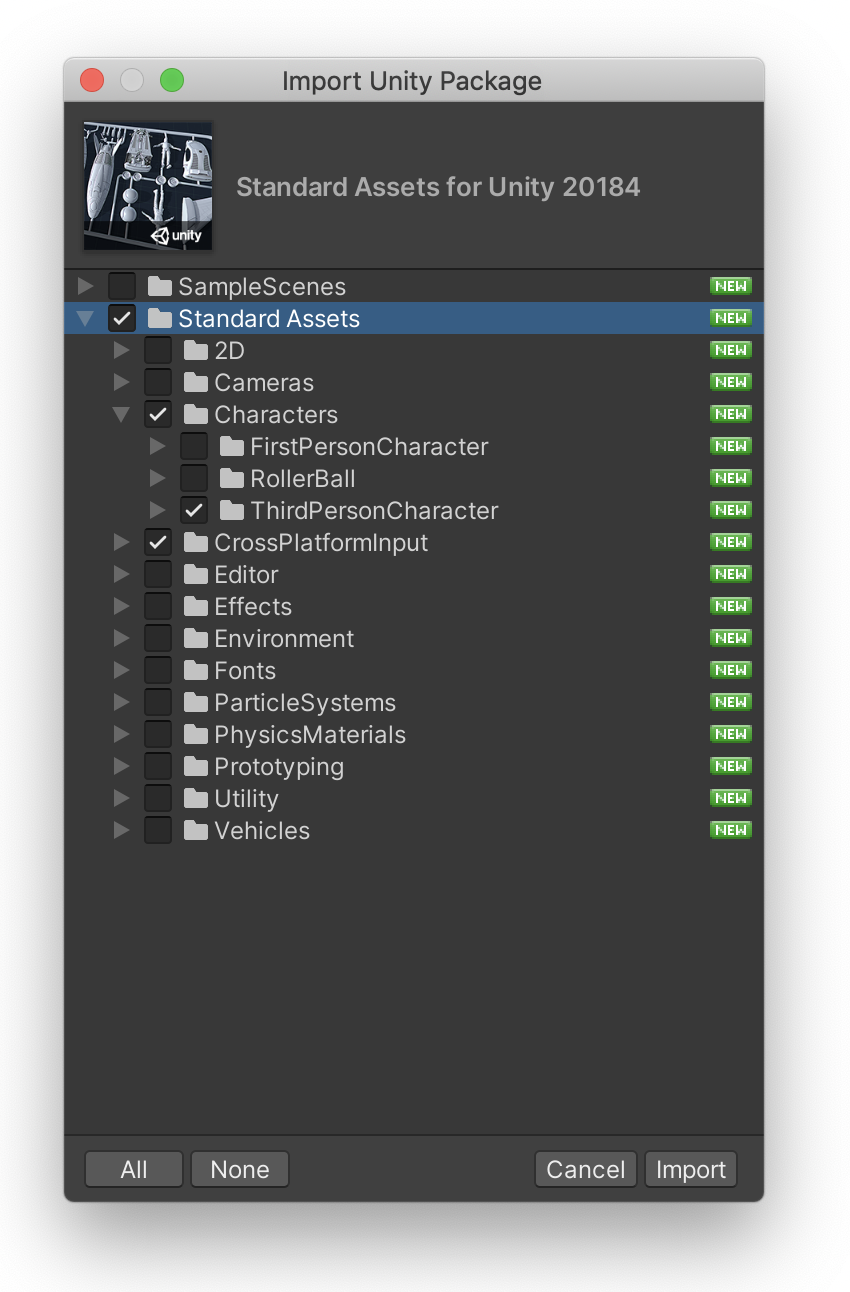
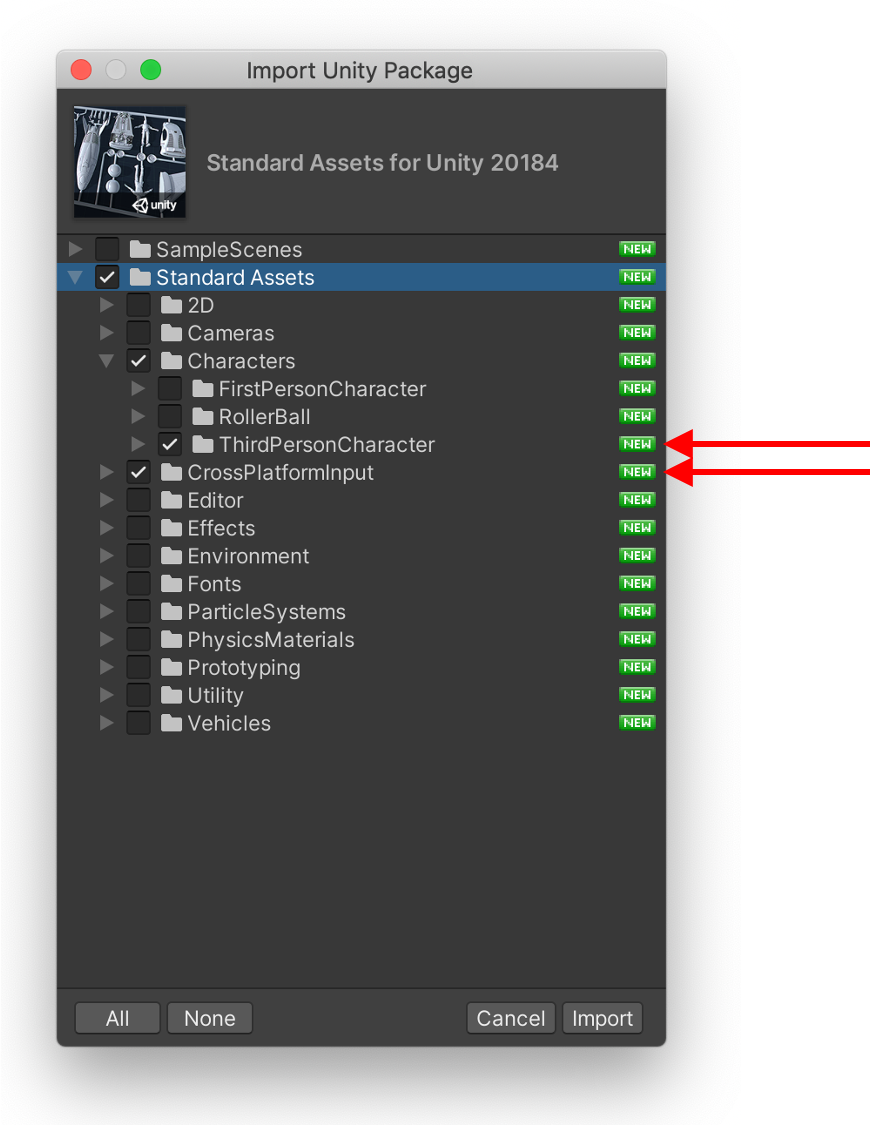
3d char controller doc completed.

diff --git a/custom_theme/css/images.css b/custom_theme/css/images.css
@@ -6,6 +6,7 @@
  * scaleXX --> scales the image to XX%
  *
  * Valid values of XX are 100, 90, 80 ... 10.
+ * Additionally, values of XX=25 are also included.
  * Use with URL parameters when embedding an image in MD doc.
  * Example1:
    ![Alt Text 1](url1/image1.png?style=center70)
@@ -65,6 +66,12 @@
 	  display:block;
 	  margin:0 auto;
     width:30%;
+	}
+
+	img[src$="center25"] {
+	  display:block;
+	  margin:0 auto;
+    width:25%;
 	}
 
 	img[src$="center20"] {
@@ -134,6 +141,13 @@
 		margin:0;
 		float:left;
     width:30%;
+	}
+
+	img[src$="left25"] {
+		display:block;
+		margin:0;
+		float:left;
+    width:25%;
 	}
 
 	img[src$="left20"] {
@@ -207,6 +221,13 @@
 	width:30%;
 	}
 
+	img[src$="right25"] {
+	display:block;
+	margin:0;
+	float:right;
+	width:25%;
+	}
+
 	img[src$="right20"] {
 	display:block;
 	margin:0;
@@ -252,6 +273,10 @@
 
 	img[src$="scale30"] {
     width:30%;
+	}
+
+	img[src$="scale25"] {
+    width:25%;
 	}
 
 	img[src$="scale20"] {

diff --git a/docs/controllable_char_with_SA.md b/docs/controllable_char_with_SA.md
@@ -5,18 +5,15 @@
 
 In this exercise, you will create a keyboard- and joystick-controllable third person character using the Unity Standard Assets.  This guide uses _Standard Assets 2018.4.1_ running on _Unity 2019.4.16f1 Personal_.
 
+![](controllable_char_with_SA/image1.jpg?style=left25)
 
-![](controllable_char_with_SA/image1.jpg?style=left30)
+![](controllable_char_with_SA/image2.jpg?style=left25)
 
-![](controllable_char_with_SA/image2.jpg?style=left30)
+![](controllable_char_with_SA/image3.jpg?style=left25)
 
-![](controllable_char_with_SA/image3.jpg?style=left30)
+![](controllable_char_with_SA/image4.jpg?style=scale25)
 
-![](controllable_char_with_SA/image4.jpg?style=left30)
-
-
-
-Begin by downloading the character you want to use for this exercise.  Follow Steps 1 and 3 of the “_[Instructions for downloading characters and animations from mixamo.com](https://docs.google.com/document/d/1wa4wkw0jEfR5mXGCDmMVqvGJwCwdYghuITq1HSdc_jI/edit?usp=sharing)_” guide to download your character.  You can also download characters from the Unity store or from other online sources.
+Begin by downloading the character you want to use for this exercise.  Follow Steps 1 and 3 of the “_[Instructions for downloading characters and animations from mixamo.com](mixamo_characters_and_animations.md)_” guide to download your character.  You can also download characters from the Unity store or from other online sources.
 
 This guide makes use of the Standard Assets (SA) package created by Unity and made available for free through the Unity Assets Store.  The SAs provide resources to quickly complete common tasks.  We will be using it to create a third-person character that you will be able to control with the keyboard or with a joystick.  This is a three part guide.  Do part I first.  You can do parts II or III in any order.
 
@@ -26,43 +23,35 @@ Part I - Create a 3rd Person Controller
 
 1. Create a new 3D project
 2. We will need two resources from the SA package: CrossPlatformInput and ThirdPersonCharacter
-3. Navigate to the Asset Store:
-Window->Asset Store
-and search for the Unity Standard Assets.
+3. Navigate to the Asset Store:  
+    `Window->Asset Store`  
+    and search for the Unity Standard Assets.
 4. Once you have the package, select “Import” to bring it into the current project.
 
-![](controllable_char_with_SA/image5.png)
-
+    ![](controllable_char_with_SA/SA.png?style=center70)
+    <br/>
 5. You will be shown a menu of resources within the SA package available for import.  While you can import everything, this will result in a larger than necessary project directory (always be mindful of disk space when working with Unity).  For Part I of this guide, you need to import only 2 things: _ThirdPersonCharacter_ and _CrossPlatformInput_:  
     `   Standard Assets->CrossPlatformInput`  
     `   Standard Assets->Characters->ThirdPersonCharacter`  
 
-![](controllable_char_with_SA/imagex.png)
+    ![](controllable_char_with_SA/SA_select_packages.png?style=center70)
 
-!!! Hint
-    For Part II, we will need the _Cameras_ resource.  You may want to import it now to save time later.
+    !!! Tip
+        For Part II, we will need the _Cameras_ resource.  You may want to import it now to save time later.
 
-6. From the ThirdPersonCharacter folder, instantiate a ThirdPersonController by dragging the ThirdPersonController to the Hierarchy Window. \
-(_Assets->StandardAssets->Characters->ThirdPersonCharacter->Prefabs->ThirdPersonController_) \
-
-
-![](controllable_char_with_SA/image6.png)
+6. From the ThirdPersonCharacter folder, instantiate a ThirdPersonController by dragging the ThirdPersonController to the Hierarchy Window.
+    (_Assets->StandardAssets->Characters->ThirdPersonCharacter->Prefabs->ThirdPersonController_)
 
 
-![alt_text](controllable_char_with_SA/image6.png "image_tooltip")
+    ![](controllable_char_with_SA/3rd_person_asset.png?style=center100)
 
-This will create the character “Ethan” that should be visible in the scene.
+    <br/>This will create the character “Ethan” that should be visible in the scene.  
+
 7. If you run the project, you will notice that Ethan simply falls out of view.  This is because the character is subject to gravity.  To fix this, we need to create a floor.
 8. Instantiate a cube.  Flatten and stretch it to create a floor.  For example, you might scale it in its transform window with the X and Z scales set to 100 and the Y scale set to 0.1.  However you scale it, position it so that it is immediately below Ethan’s feet.
 
-
-
-![](controllable_char_with_SA/image7.png)
-
-
-![alt_text](controllable_char_with_SA/image7.png "image_tooltip")
-
-
+    ![](controllable_char_with_SA/ethan.png?style=center60)
+   <br/>
 9. Now run the project again.  This time, Ethan has a floor beneath his feet.  You should be able to control him with the keyboard arrows or with a joystick.  Use ‘C’ to crouch down and use the spacebar to jump.  Use the left shift key to make him walk.
 
 Part II - Add a 3rd Player Camera
@@ -77,86 +66,45 @@ In this part, we will replace the default static camera with a 3rd player camera
 3. Instantiate a “multipurpose camera rig” to the hierarchy.  From the Assets window, (_Assets->StandardAssets->Cameras->Prefabs->MultipuposeCameraRig_)
 4. Tag the ThirdPersonController as the “Player” in the Inspector.  This is how the camera knows what to follow.
 
+    ![](controllable_char_with_SA/3rd_person_select.png?style=center100)
+
+   <br/>
+5. Run the project again.  Note how the camera follows the player.  Feel free to experiment with the other available cameras.  Note that the first person camera requires importing _Standard Assets->Utility_.
 
 
 
-8" >![](controllable_char_with_SA/image8.png) 9
-
-
-![alt_text](controllable_char_with_SA/image8.png "image_tooltip")
-
-
-
-
-5. Run the project again.  Note how the camera follows the player.  Feel free to experiment with the other available cameras.  Note that the first person camera requires importing_ Standard Assets->Utility_.
-
-
-
-**Part III - Replace the Default Character**
+Part III - Replace the Default Character
+----------------------------------------
 
 In this part, we will replace Ethan with a character of our choice.
 
-
-
 1. Import a rigged humanoid character model into the project.  Be certain that your character’s Rig is set to “humanoid”.  For this example, we have imported a character named Louise who we will use to replace Ethan.
-2. The ThirdPersonController is a prefab.  Think of it as a zip file that contains other files.  Just like you can’t modify the contents of a zip file without unzipping it, you can’t modify the contents of a prefab without “unpacking” it.  The Ethan character is contained inside the ThirdPersonController prefab.  In order to replace Ethan with Louise, we must unpack the prefab.  In the hierarchy window, right-click on the ThirdPersonController and select “Unpack Prefab”.
+2. The ThirdPersonController is a prefab.  Think of it as a zip file that contains other files.  Just like you can’t modify the contents of a zip file without unzipping it, you can’t modify the contents of a prefab without “unpacking” it.  The Ethan character is contained inside the ThirdPersonController prefab.  In order to replace Ethan with Louise, we must unpack the prefab.  In the hierarchy window, right-click on the ThirdPersonController and select “Unpack Prefab”. <br/><br/>
 
+    ![](controllable_char_with_SA/unpack_prefab.png?style=center50)
+    <br/>
 
+3.  Once the prefab is unpacked, instantiate a copy of Louise inside the unpacked prefab  
+4.  Now, delete the 3 files (EthanBody, EthanModel, EthanSkeleton) that comprise the Ethan character.  
+    <br/>
 
+    |  |  |  |
+    |:---:|:---:|:---:|
+    |![](controllable_char_with_SA/louis_and_ethan_hierarchy.png?style=scale90)||![](controllable_char_with_SA/louise_hierarchy.png?style=scale90)|  
+    |Step 3||Step 4|
 
-![](controllable_char_with_SA/image9.png)
+    <br/>
 
+5. Finally, we need to tell the ThirdPersonController to use out new character model  
+	 *  In the Inspector, for the ThirdPersonController, set the Animator Avatar to the avatar of the new character model.  
+	 *  In the Inspector, for the new character model, assure that the Animator Controller is set to ‘None’ and that the model’s avatar is correctly set.  
+   <br/>
 
-![alt_text](controllable_char_with_SA/image9.png "image_tooltip")
+    |  |  |  |
+    |:---:|:---:|:---:|
+    |![](controllable_char_with_SA/avatar.png?style=scale90)||![](controllable_char_with_SA/louise_avatar.png?style=scale90)|
 
-
-
-
-
-3. Once the prefab is unpacked, instantiate a copy of Louise inside the unpacked prefab
-4. Now, delete the 3 files (EthanBody, EthanModel, EthanSkeleton) that comprise the Ethan character.
-
-
-
-
-![](controllable_char_with_SA/image10.png)
-
-
-![alt_text](controllable_char_with_SA/image10.png "image_tooltip")
-
-![](controllable_char_with_SA/image11.png)
-
-
-![alt_text](controllable_char_with_SA/image11.png "image_tooltip")
-
-
-Step 3						Step 4
-
-
-
-
-
-
-5. Finally, we need to tell the ThirdPersonController to use out new character model
-	1. In the Inspector, for the ThirdPersonController, set the Animator Avatar to the avatar of the new character model.
-	2. In the Inspector, for the new character model, assure that the Animator Controller is set to ‘None’ and that the model’s avatar is correctly set.
-
-
-
-
-![](controllable_char_with_SA/image12.png)
-
-
-![alt_text](controllable_char_with_SA/image12.png "image_tooltip")
-
-
-[](controllable_char_with_SA/image13.png)
-
-
-![alt_text](controllable_char_with_SA/image13.png "image_tooltip")
-
-
-
+    <br/>
 
 6. You should now be able to run the project and control your new character.
 
